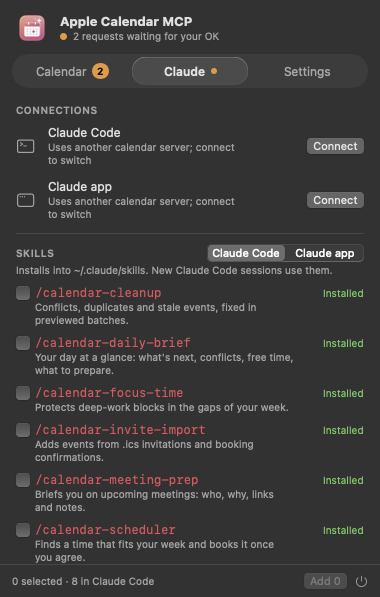
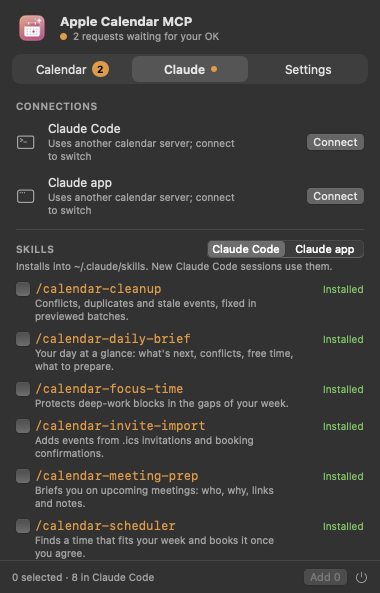
App: the same look as Apple Mail MCP
The panel now uses Apple Mail MCP's building blocks: its segmented tab bar
(a quiet track and a sliding pill), its orange-bordered approval block, plain
"Now" and "in 15 min" text instead of chips, the working days in the same
segmented style, orange slash commands, and its footer. Liquid Glass stays on
the buttons, over the system's glass menu window, as in Mail. README
screenshots regenerated.

diff --git a/Sources/CalendarMCPBar/Views.swift b/Sources/CalendarMCPBar/Views.swift
@@ -2,8 +2,8 @@ import CalendarMCPKit
 import CalendarStore
 import SwiftUI
 
-// One surface, sections and rows (no stacked cards). Glass marks the controls: the tab selection, buttons, the
-// status chips, and the approval block, the one thing that asks for attention.
+// One surface, sections and rows (no stacked cards), the same look as Apple Mail MCP: Liquid Glass on the buttons over
+// the system's glass menu window, quiet fills elsewhere. The approval is the only emphasized block.
 
 // MARK: Building blocks
 
@@ -72,17 +72,15 @@ struct Checkmark: View {
     }
 }
 
-/// A small glass label: "Now", "in 25 min".
+/// "Now" or "in 25 min" at the end of an event row.
 struct Chip: View {
     let text: String
     var tint: Color? = nil
 
     var body: some View {
         Text(text)
-            .font(.caption2.weight(.semibold))
-            .padding(.horizontal, 7)
-            .padding(.vertical, 2)
-            .glassBackground(Capsule(), tint: tint)
+            .font(.caption.weight(tint == nil ? .regular : .semibold).monospacedDigit())
+            .foregroundStyle(tint ?? .secondary)
     }
 }
 
@@ -157,7 +155,6 @@ struct MenuContent: View {
             case .calendar:
                 Text(model.footerLine).font(.caption).foregroundStyle(.tertiary)
                 Spacer()
-                Button("Open Calendar") { model.openCalendarApp() }.buttonStyle(.link).font(.caption)
             }
             Button { NSApp.terminate(nil) } label: { Image(systemName: "power") }
                 .buttonStyle(.borderless)
@@ -169,48 +166,50 @@ struct MenuContent: View {
     }
 }
 
-/// Tabs with one glass capsule that morphs from tab to tab; a count badge on Calendar, a dot on Claude.
+/// Segmented tab bar with a count badge on Calendar and a dot on Claude when something needs doing (as in Apple Mail MCP).
 struct TabBar: View {
     @Bindable var model: AgentModel
     let selected: PanelTab
     let select: (PanelTab) -> Void
-    @Namespace private var glass
+    /// One selection pill that slides from tab to tab, like a segmented control.
+    @Namespace private var pill
 
     var body: some View {
-        GlassGroup(spacing: 4) {
-            HStack(spacing: 2) {
-                ForEach(PanelTab.allCases) { tab in
-                    Button { select(tab) } label: {
-                        HStack(spacing: 5) {
-                            Text(tab.rawValue)
-                            if tab == .calendar, !model.pending.isEmpty {
-                                Text("\(model.pending.count)")
-                                    .contentTransition(.numericText(value: Double(model.pending.count)))
-                                    .font(.caption2.weight(.bold))
-                                    .foregroundStyle(.black)
-                                    .padding(.horizontal, 5)
-                                    .frame(minWidth: 16, minHeight: 16)
-                                    .background(Capsule().fill(Color.orange))
-                            }
-                            if tab == .claude, model.claudeNeedsAction {
-                                Circle().fill(Color.orange).frame(width: 6, height: 6)
-                            }
+        HStack(spacing: 2) {
+            ForEach(PanelTab.allCases) { tab in
+                Button { select(tab) } label: {
+                    HStack(spacing: 5) {
+                        Text(tab.rawValue)
+                        if tab == .calendar, !model.pending.isEmpty {
+                            Text("\(model.pending.count)")
+                                .contentTransition(.numericText(value: Double(model.pending.count)))
+                                .font(.caption2.weight(.bold))
+                                .foregroundStyle(.black)
+                                .padding(.horizontal, 5)
+                                .frame(minWidth: 16, minHeight: 16)
+                                .background(Capsule().fill(Color.orange))
                         }
-                        .font(.callout.weight(selected == tab ? .semibold : .regular))
-                        .foregroundStyle(selected == tab ? .primary : .secondary)
-                        .frame(maxWidth: .infinity, minHeight: 28)
-                        .contentShape(Capsule())
-                        // The glass carries the label: text drawn on it, never under it.
-                        .modifier(SelectedGlass(isOn: selected == tab, id: "selection", namespace: glass))
+                        if tab == .claude, model.claudeNeedsAction {
+                            Circle().fill(Color.orange).frame(width: 6, height: 6)
+                        }
                     }
-                    .buttonStyle(PressableButtonStyle())
-                    .focusEffectDisabled()
-                    .accessibilityAddTraits(selected == tab ? [.isButton, .isSelected] : .isButton)
+                    .font(.callout.weight(selected == tab ? .semibold : .regular))
+                    .frame(maxWidth: .infinity, minHeight: 26)
+                    .contentShape(Rectangle())
+                    .background {
+                        if selected == tab {
+                            RoundedRectangle(cornerRadius: 7).fill(Color.primary.opacity(0.14))
+                                .matchedGeometryEffect(id: "pill", in: pill)
+                        }
+                    }
                 }
+                .buttonStyle(PressableButtonStyle())
+                .focusEffectDisabled()
+                .accessibilityAddTraits(selected == tab ? [.isButton, .isSelected] : .isButton)
             }
-            .padding(3)
-            .background(Capsule().fill(Color.primary.opacity(0.06)))
         }
+        .padding(2)
+        .background(RoundedRectangle(cornerRadius: 9).fill(Color.primary.opacity(0.07)))
         .animatesChanges(of: selected)
         .animatesChanges(of: model.pending.count)
     }
@@ -386,7 +385,7 @@ struct ActivityRow: View {
             Image(systemName: status.symbol).font(.system(size: 8, weight: .bold)).foregroundStyle(status.color)
                 .frame(width: 10).accessibilityLabel(status.label)
             Text(entry.tool.replacingOccurrences(of: "_", with: " ")).font(.caption).lineLimit(1)
-                .frame(width: 122, alignment: .leading)
+                .frame(width: 132, alignment: .leading)
             Text(entry.summary).font(.caption).foregroundStyle(entry.ok ? .secondary : .primary).lineLimit(entry.ok ? 1 : 2)
                 .fixedSize(horizontal: false, vertical: true)
             Spacer(minLength: 4)
@@ -451,6 +450,7 @@ struct ApprovalQueue: View {
 
 struct ApprovalBlock: View {
     let request: ApprovalRequest
+    @Environment(\.colorSchemeContrast) private var contrast
     var position: (Int, Int)?
     var page: (Int) -> Void = { _ in }
     let decide: (Bool) -> Void
@@ -516,14 +516,13 @@ struct ApprovalBlock: View {
                 }
                 Spacer()
                 Button(wording.no, role: .cancel) { decide(false) }.glassButton()
-                Button(wording.yes) { decide(true) }.glassButton(prominent: true).tint(.orange).keyboardShortcut(.defaultAction)
+                Button(wording.yes) { decide(true) }.glassButton(prominent: true).keyboardShortcut(.defaultAction)
             }
         }
         .padding(12)
-        // Orange on the glass itself: a glass tint fades to grey when the window is not active, and this block must
-        // stand out either way.
-        .background(RoundedRectangle(cornerRadius: 16, style: .continuous).fill(Color.orange.opacity(0.12)))
-        .glassBackground(RoundedRectangle(cornerRadius: 16, style: .continuous), tint: .orange, strength: 0.5)
+        .background(RoundedRectangle(cornerRadius: 12).fill(Color.orange.opacity(contrast == .increased ? 0.18 : 0.12)))
+        .overlay(RoundedRectangle(cornerRadius: 12).strokeBorder(Color.orange.opacity(contrast == .increased ? 0.9 : 0.35),
+                                                                 lineWidth: contrast == .increased ? 1.5 : 1))
         .onChange(of: request.id) { showAll = false }
     }
 }
@@ -693,7 +692,7 @@ struct SlashCommand: View {
         } label: {
             Text(copied ? "Copied /\(name)" : "/\(name)")
                 .font(.callout.monospaced())
-                .foregroundStyle(copied ? Color.green : Color.pink)
+                .foregroundStyle(copied ? Color.green : Color.orange)
                 .contentTransition(.opacity)
         }
         .buttonStyle(.borderless)
@@ -806,50 +805,34 @@ struct TimeField: View {
     }
 }
 
-/// Working days as a row of toggles, Monday first.
+/// Working days as a row of toggles, Monday first, in the tab bar's segmented style.
 struct WeekdayPicker: View {
     @Binding var selection: [Int]
-    @Namespace private var glass
 
     var body: some View {
-        GlassGroup(spacing: 4) {
-            HStack(spacing: 4) {
-                ForEach([2, 3, 4, 5, 6, 7, 1], id: \.self) { day in
-                    let on = selection.contains(day)
-                    Button {
-                        if on { selection.removeAll { $0 == day } } else { selection = (selection + [day]).sorted() }
-                    } label: {
-                        Text(Calendar.current.veryShortWeekdaySymbols[day - 1])
-                            .font(.caption.weight(on ? .bold : .regular))
-                            .foregroundStyle(on ? .primary : .secondary)
-                            .frame(width: 30, height: 24)
-                            .contentShape(Capsule())
-                            .modifier(SelectedGlass(isOn: on, id: day, namespace: glass, tint: .accentColor))
-                    }
-                    .buttonStyle(PressableButtonStyle())
-                    .focusEffectDisabled()
-                    .accessibilityLabel(Calendar.current.weekdaySymbols[day - 1])
-                    .accessibilityAddTraits(on ? [.isButton, .isSelected] : .isButton)
+        HStack(spacing: 2) {
+            ForEach([2, 3, 4, 5, 6, 7, 1], id: \.self) { day in
+                let on = selection.contains(day)
+                Button {
+                    if on { selection.removeAll { $0 == day } } else { selection = (selection + [day]).sorted() }
+                } label: {
+                    Text(Calendar.current.veryShortWeekdaySymbols[day - 1])
+                        .font(.caption.weight(on ? .semibold : .regular))
+                        .foregroundStyle(on ? .primary : .secondary)
+                        .frame(width: 30, height: 22)
+                        .contentShape(Rectangle())
+                        .background { if on { RoundedRectangle(cornerRadius: 6).fill(Color.primary.opacity(0.14)) } }
                 }
+                .buttonStyle(PressableButtonStyle())
+                .focusEffectDisabled()
+                .accessibilityLabel(Calendar.current.weekdaySymbols[day - 1])
+                .accessibilityAddTraits(on ? [.isButton, .isSelected] : .isButton)
             }
         }
+        .padding(2)
+        .background(RoundedRectangle(cornerRadius: 8).fill(Color.primary.opacity(0.07)))
+        .fixedSize()
         .animatesChanges(of: selection)
-    }
-}
-
-/// Glass on the view itself while `isOn` (a selected tab or day), tied to `id` so it morphs between them.
-struct SelectedGlass<ID: Hashable & Sendable>: ViewModifier {
-    let isOn: Bool
-    let id: ID
-    let namespace: Namespace.ID
-    var tint: Color? = nil
-
-    func body(content: Content) -> some View {
-        if isOn {
-            content.glassBackground(Capsule(), tint: tint, interactive: true).glassID(id, in: namespace)
-        } else {
-            content
-        }
     }
 }
 

diff --git a/Sources/CalendarMCPBar/Glass.swift b/Sources/CalendarMCPBar/Glass.swift
@@ -1,14 +1,31 @@
 import SwiftUI
 
-// Liquid Glass on macOS 26+, for the controls layer only: the tab selection, buttons, the approval block and small
-// status chips. Content (the day, activity, settings) stays on the panel's one surface. Older systems, older SDKs
-// (Swift < 6.2) and Reduce Transparency get a frosted or solid fill in the same shape.
+// Liquid Glass on macOS 26+, with material fallbacks so the app also builds
+// with older SDKs (Swift < 6.2) and runs on macOS 14–15.
 
 extension View {
-    /// A glass shape behind this view (tinted when `tint` is given).
+    /// A glass panel (tinted when `tint` is given).
     @ViewBuilder
-    func glassBackground(_ shape: some Shape = Capsule(), tint: Color? = nil, strength: Double = 0.3, interactive: Bool = false) -> some View {
-        modifier(GlassBackground(shape: AnyShape(shape), tint: tint, strength: strength, interactive: interactive))
+    func glassCard(cornerRadius: CGFloat = 14, tint: Color? = nil, interactive: Bool = false) -> some View {
+        #if compiler(>=6.2)
+        if #available(macOS 26.0, *) {
+            let glass = tint.map { Glass.regular.tint($0.opacity(0.22)) } ?? .regular
+            self.glassEffect(interactive ? glass.interactive() : glass, in: .rect(cornerRadius: cornerRadius))
+        } else {
+            materialCard(cornerRadius: cornerRadius, tint: tint)
+        }
+        #else
+        materialCard(cornerRadius: cornerRadius, tint: tint)
+        #endif
+    }
+
+    private func materialCard(cornerRadius: CGFloat, tint: Color?) -> some View {
+        background {
+            RoundedRectangle(cornerRadius: cornerRadius)
+                .fill(.regularMaterial)
+                .overlay(RoundedRectangle(cornerRadius: cornerRadius).fill((tint ?? .clear).opacity(0.12)))
+                .overlay(RoundedRectangle(cornerRadius: cornerRadius).strokeBorder(.white.opacity(0.12)))
+        }
     }
 
     /// Glass button style (prominent = tinted glass for the primary action).
@@ -24,75 +41,11 @@ extension View {
         if prominent { self.buttonStyle(.borderedProminent) } else { self.buttonStyle(.bordered) }
         #endif
     }
-
-    /// Ties this glass shape to `id` in `namespace`, so it morphs into the shape with the same id elsewhere.
-    @ViewBuilder
-    func glassID(_ id: some Hashable & Sendable, in namespace: Namespace.ID) -> some View {
-        #if compiler(>=6.2)
-        if #available(macOS 26.0, *) {
-            self.glassEffectID(id, in: namespace)
-        } else {
-            self
-        }
-        #else
-        self
-        #endif
-    }
-}
-
-extension EnvironmentValues {
-    /// Set while `--snapshot` draws views into bitmaps: the window server composites Liquid Glass, so a bitmap of the
-    /// view never holds it (it comes out blank). Glass is then drawn as a tinted fill of the same shape.
-    @Entry var drawsGlassAsFill = false
-}
-
-private struct GlassBackground: ViewModifier {
-    let shape: AnyShape
-    let tint: Color?
-    /// How strongly the tint colours the glass (0…1).
-    let strength: Double
-    let interactive: Bool
-    @Environment(\.accessibilityReduceTransparency) private var reduceTransparency
-    @Environment(\.colorSchemeContrast) private var contrast
-    @Environment(\.drawsGlassAsFill) private var drawsGlassAsFill
-
-    func body(content: Content) -> some View {
-        if drawsGlassAsFill {
-            content.background {
-                shape.fill(tint.map { $0.opacity(strength * 0.55) } ?? Color.primary.opacity(0.09))
-                    .overlay(shape.stroke(LinearGradient(colors: [.white.opacity(0.35), .white.opacity(0.05)], startPoint: .top, endPoint: .bottom), lineWidth: 0.75))
-                    .shadow(color: .black.opacity(0.12), radius: 6, y: 2)
-            }
-        } else if reduceTransparency || contrast == .increased {
-            // Solid, with a defined edge: legible over anything.
-            content.background {
-                shape.fill(tint.map { $0.opacity(0.22) } ?? Color.primary.opacity(0.10))
-                    .overlay(shape.stroke((tint ?? .primary).opacity(contrast == .increased ? 0.8 : 0.3), lineWidth: 1))
-            }
-        } else {
-            #if compiler(>=6.2)
-            if #available(macOS 26.0, *) {
-                let glass = tint.map { Glass.regular.tint($0.opacity(strength)) } ?? .regular
-                content.glassEffect(interactive ? glass.interactive() : glass, in: shape)
-            } else {
-                content.background { frosted }
-            }
-            #else
-            content.background { frosted }
-            #endif
-        }
-    }
-
-    private var frosted: some View {
-        shape.fill(.regularMaterial)
-            .overlay(shape.fill((tint ?? .clear).opacity(0.14)))
-            .overlay(shape.stroke(.white.opacity(0.14), lineWidth: 0.5))
-    }
 }
 
 /// Groups glass shapes so they blend and morph together on macOS 26+.
 struct GlassGroup<Content: View>: View {
-    var spacing: CGFloat = 8
+    var spacing: CGFloat = 10
     @ViewBuilder var content: Content
 
     var body: some View {
@@ -105,5 +58,14 @@ struct GlassGroup<Content: View>: View {
         #else
         content
         #endif
+    }
+}
+
+/// A small coloured status dot with a soft glow.
+struct StatusDot: View {
+    var color: Color
+
+    var body: some View {
+        Circle().fill(color.gradient).frame(width: 8, height: 8).shadow(color: color.opacity(0.6), radius: 3)
     }
 }

diff --git a/Sources/CalendarMCPBar/CalendarMCPBarApp.swift b/Sources/CalendarMCPBar/CalendarMCPBarApp.swift
@@ -114,7 +114,7 @@ enum Snapshots {
             NSApp.appearance = NSAppearance(named: appearanceName)
             func save(_ view: some View, _ name: String) {
                 // AppKit draws the hosted view into a bitmap: real controls and scroll views, no screen needed.
-                let host = NSHostingView(rootView: view.environment(\.drawsGlassAsFill, true).background(Color(nsColor: .windowBackgroundColor)))
+                let host = NSHostingView(rootView: view.background(Color(nsColor: .windowBackgroundColor)))
                 host.appearance = NSAppearance(named: appearanceName)
                 host.frame = NSRect(origin: .zero, size: host.fittingSize)
                 let window = NSWindow(contentRect: host.frame, styleMask: [.borderless], backing: .buffered, defer: false)

diff --git a/CLAUDE.md b/CLAUDE.md
@@ -10,7 +10,7 @@ An MCP server for Apple Calendar in Swift, plus a menu bar app. The companion of
 | `CalendarStore` | Models, `CalendarBackend` (EventKit, memory, bridge), repeat rules, free time, conflicts, statistics, iCalendar |
 | `CalendarMCPKit` | MCP tools (`Tools+*.swift`), settings and policies, undo journal, activity log, path guard, skills, installer, doctor |
 | `apple-calendar-mcp` | The server and CLI (`serve`, `doctor`, `install`, `skills`, `call`, `--demo`) |
-| `CalendarMCPBar` | The menu bar app (SwiftUI, Liquid Glass): bridge host, approvals, today, activity, Claude setup, settings, updater |
+| `CalendarMCPBar` | The menu bar app (SwiftUI, as Apple Mail MCP's): bridge host, approvals, today, activity, Claude setup, settings, updater |
 | `CalendarFixtures` | The made-up demo week (tests, `--demo`, screenshots) |
 | `Skills/` | The Claude skills, one `SKILL.md` each; embedded into the binary |
 
@@ -51,8 +51,10 @@ APPLE_CALENDAR_MCP_SUPPORT_DIR=/tmp/acm-demo "…/Apple Calendar MCP.app/Content
   trailer and no "Generated with Claude Code" line.
 - CI's compiler (Swift 6.2) is slower than local: build big `JSON.obj` literals in typed steps
   (`-Xfrontend -warn-long-expression-type-checking=60` finds them).
-- Liquid Glass is composited by the window server: `--snapshot` bitmaps draw it as a tinted fill
-  (`drawsGlassAsFill`), the live app shows real glass.
+- **The panel looks like Apple Mail MCP's** (same `Views.swift` building blocks, segmented tab bar, orange-bordered
+  approval block): Liquid Glass only on buttons (`glassButton`), over the system's glass menu window. Glass on a
+  selection behind a label made the label unreadable; and `--snapshot` bitmaps cannot hold glass (the window server
+  composites it), so they would show blank areas.
 
 ## EventKit facts this code depends on
 
